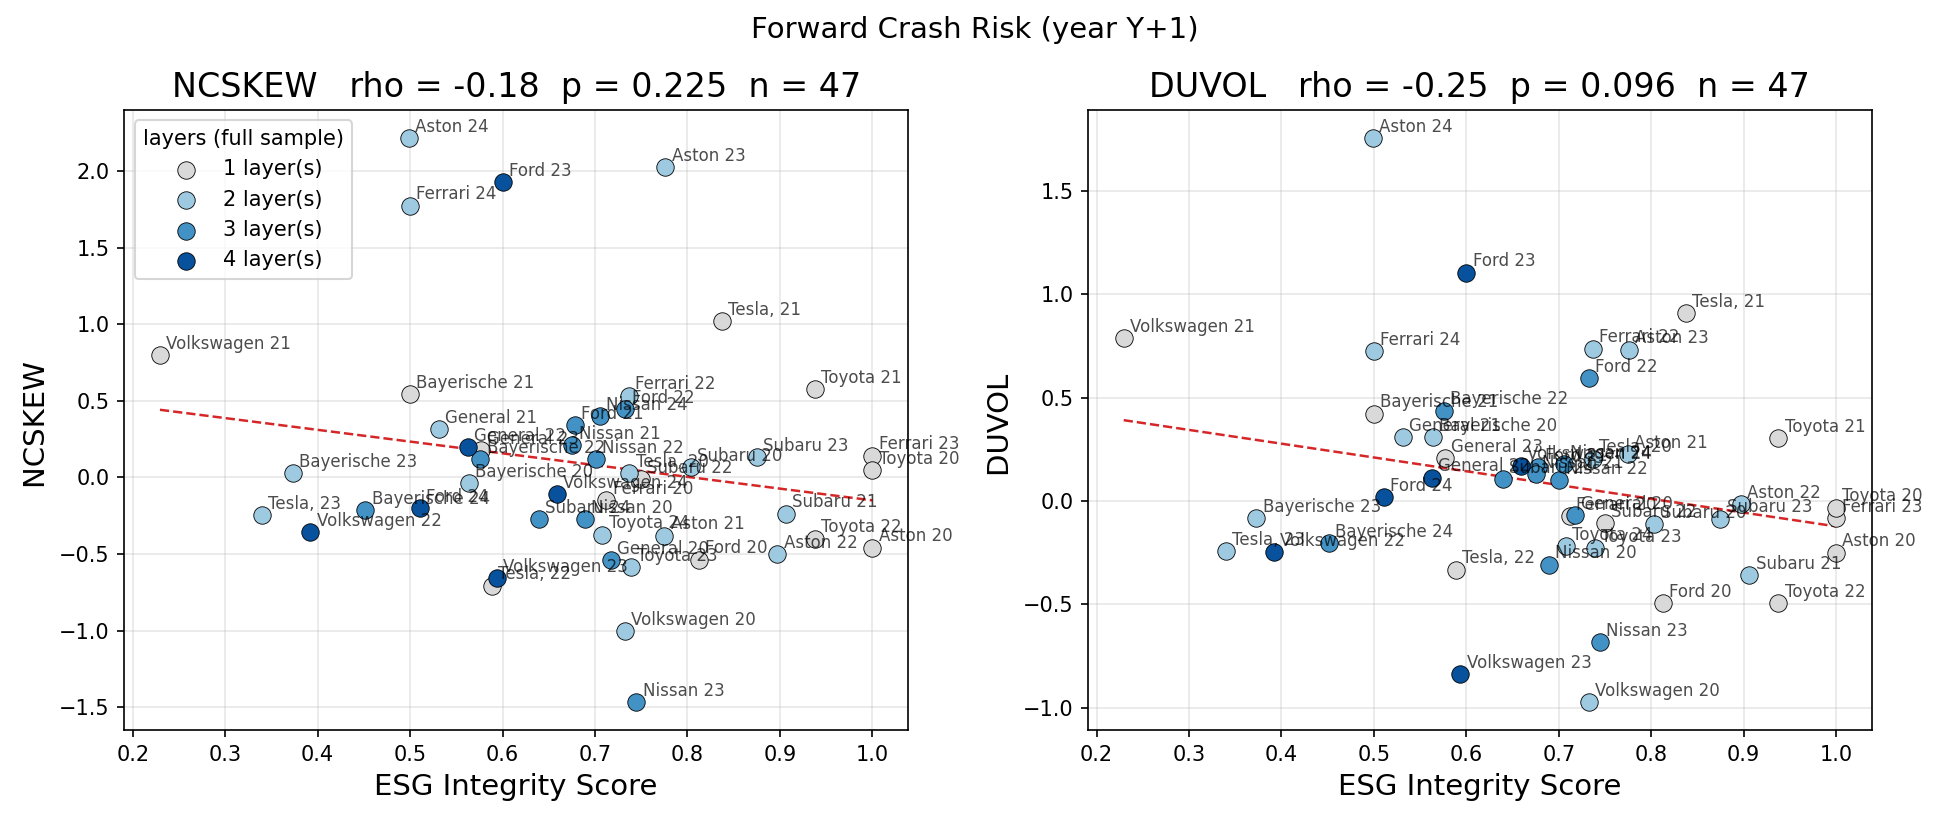
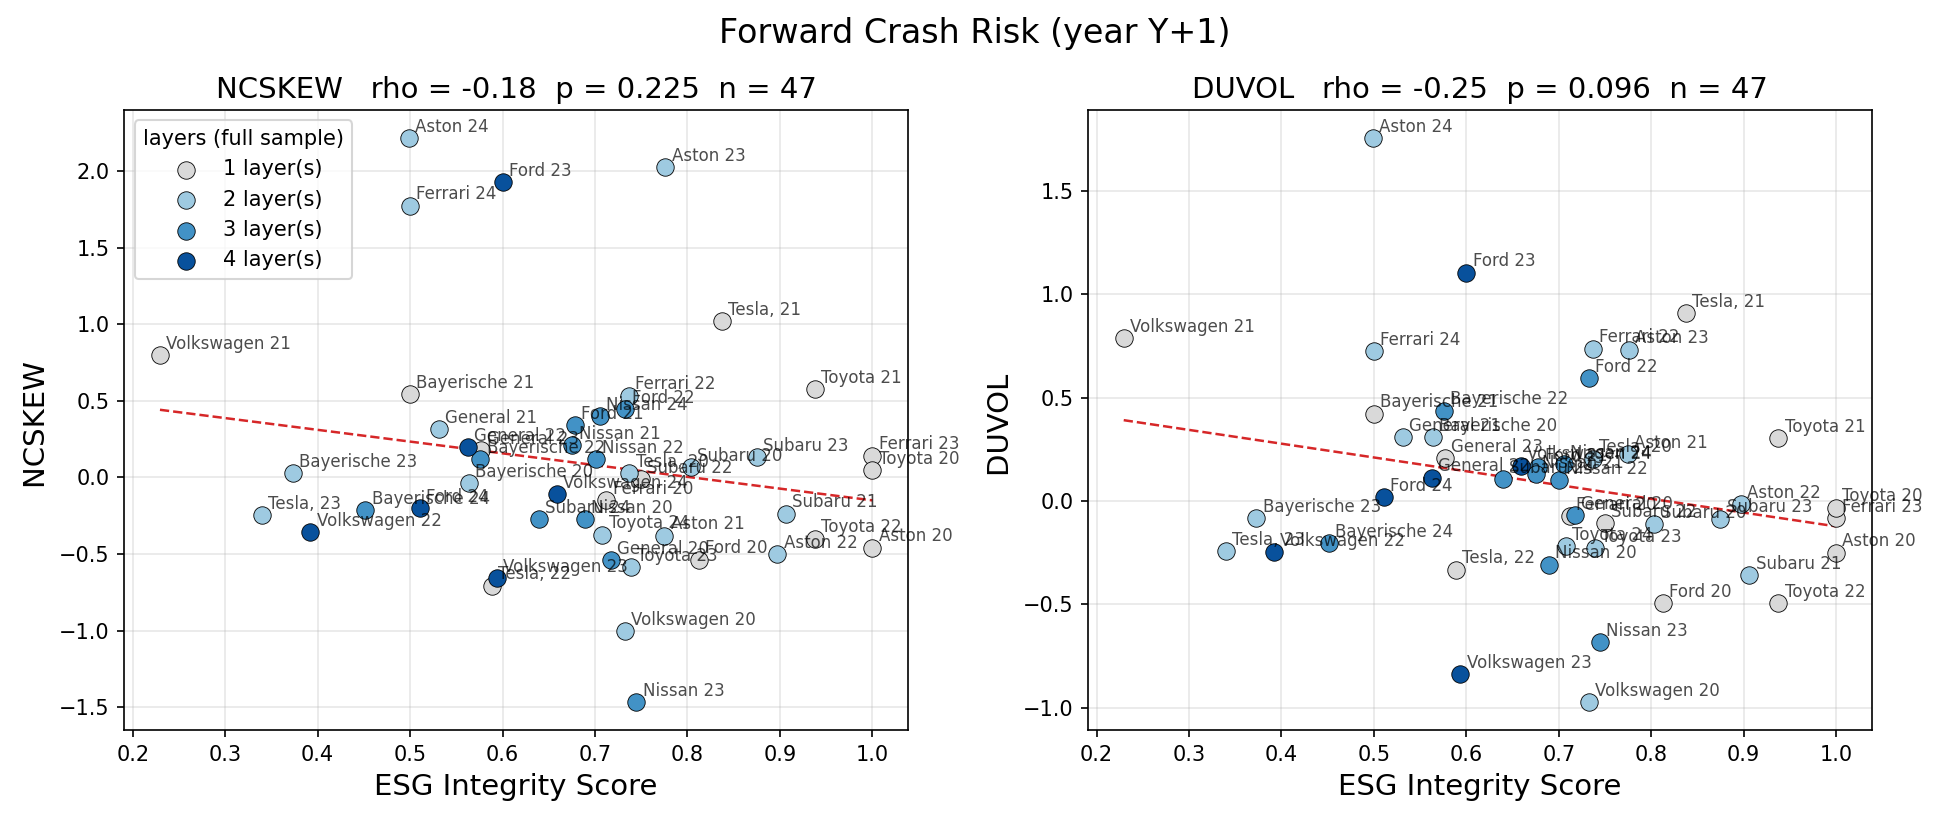
final update

Changed region(s): [[0.3692, 0.0, 0.6462, 0.0606], [0.5846, 0.0909, 0.9231, 0.1212], [0.0923, 0.0909, 0.4308, 0.1212]]

diff --git a/src/ingestion/financial_analysis/crash_risk.py b/src/ingestion/financial_analysis/crash_risk.py
@@ -130,10 +130,10 @@ def make_scatter(df, plot_path, title):
         ax.plot(xs, b[0] * xs + b[1], "--", color="#d62728", linewidth=1.2, zorder=2)
         ax.set_xlabel("ESG Integrity Score", fontsize=14)
         ax.set_ylabel(f"{col} ", fontsize=14)
-        ax.set_title(f"{col}   rho = {rho:+.2f}  p = {p:.3f}  n = {len(s)}", fontsize=16)
+        ax.set_title(f"{col}   rho = {rho:+.2f}  p = {p:.3f}  n = {len(s)}", fontsize=14)
         ax.grid(True, alpha=0.3, zorder=0)
     axes[0].legend(title="layers (full sample)", fontsize=10, title_fontsize=10)
-    fig.suptitle(title, fontsize=14)
+    fig.suptitle(title, fontsize=16)
     fig.tight_layout()
     fig.savefig(plot_path, dpi=150)
     plt.close(fig)
